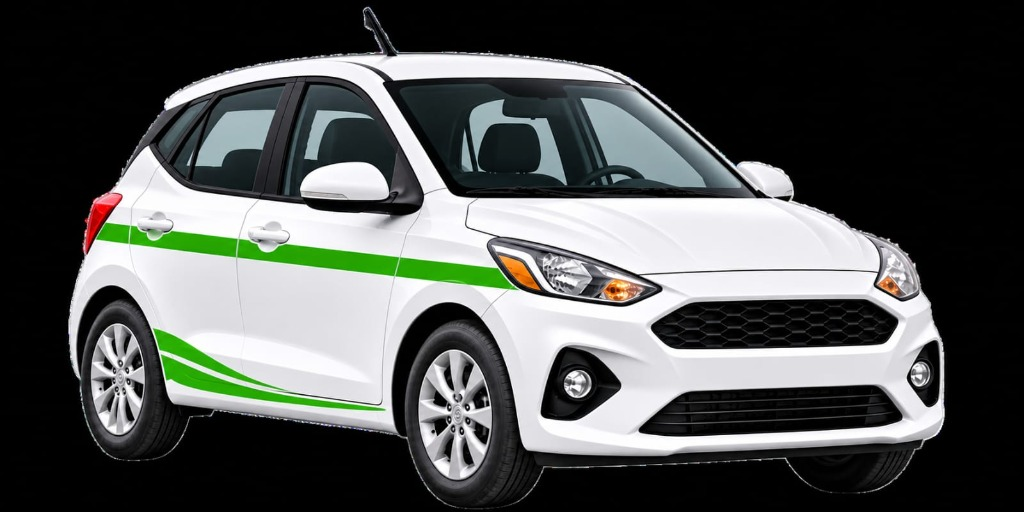
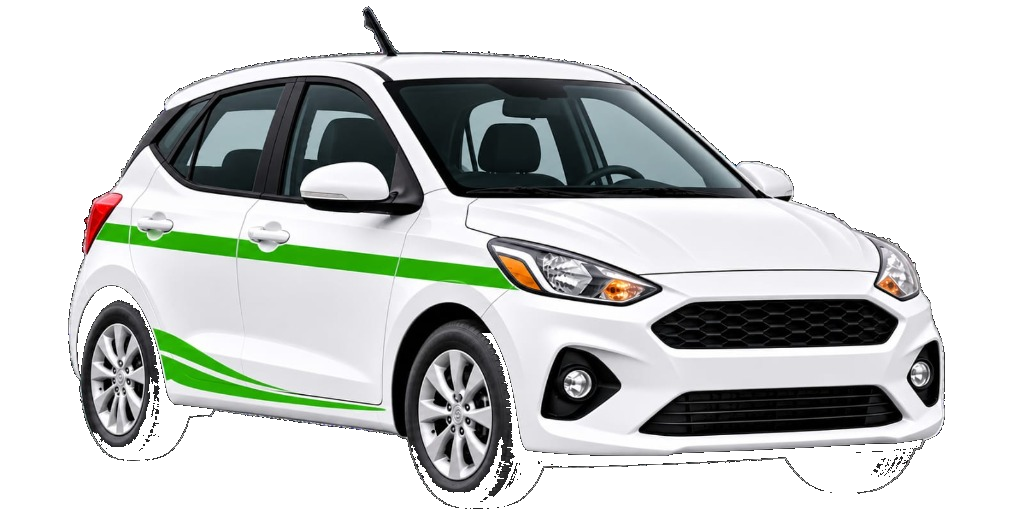
fix(home): use transparent car images and remove JCB and Crane

diff --git a/frontend/lib/features/customer/presentation/screens/customer_home_screen.dart b/frontend/lib/features/customer/presentation/screens/customer_home_screen.dart
@@ -1025,27 +1025,24 @@ class _CustomerHomeScreenState extends ConsumerState<CustomerHomeScreen>
           crossAxisAlignment: CrossAxisAlignment.center,
           mainAxisAlignment: MainAxisAlignment.center,
           children: [
-            Container(
+            SizedBox(
               height: 64,
               width: double.infinity,
-              decoration: BoxDecoration(
-                color: Colors.white,
-                borderRadius: BorderRadius.circular(10),
+              child: Center(
+                child: item.assetImagePath != null
+                    ? Image.asset(
+                        item.assetImagePath!,
+                        height: 60,
+                        width: double.infinity,
+                        fit: BoxFit.contain,
+                        errorBuilder: (_, __, ___) => VehicleCategoryVisual(
+                          category: item.category,
+                          size: 44,
+                          borderRadius: 0,
+                        ),
+                      )
+                    : Icon(item.icon, size: 44),
               ),
-              alignment: Alignment.center,
-              child: item.assetImagePath != null
-                  ? Image.asset(
-                      item.assetImagePath!,
-                      height: 60,
-                      width: double.infinity,
-                      fit: BoxFit.contain,
-                      errorBuilder: (_, __, ___) => VehicleCategoryVisual(
-                        category: item.category,
-                        size: 44,
-                        borderRadius: 10,
-                      ),
-                    )
-                  : Icon(item.icon, size: 44),
             ),
             const SizedBox(height: 6),
             Text(

diff --git a/frontend/lib/features/customer/presentation/widgets/vehicle_category_visual.dart b/frontend/lib/features/customer/presentation/widgets/vehicle_category_visual.dart
@@ -30,7 +30,7 @@ class VehicleCategoryConfig {
       category: VehicleCategoryType.rides,
       title: 'Rides & Cabs',
       subtitle: 'Daily city rides',
-      assetImagePath: 'assets/images/hatchback_clean.jpg',
+      assetImagePath: 'assets/vehicles/rental_card_hatchback.png',
       fallbackIcon: Icons.directions_car_rounded,
     ),
     VehicleCategoryType.logistics: VehicleCategoryConfig(
@@ -103,21 +103,16 @@ class VehicleCategoryVisual extends StatelessWidget {
     final config = VehicleCategoryConfig.getConfig(category);
     final imagePath = customAssetPath ?? config.assetImagePath;
 
-    return ClipRRect(
-      borderRadius: BorderRadius.circular(borderRadius),
-      child: Container(
-        width: size,
-        height: size,
-        decoration: BoxDecoration(
-          color: Colors.white,
-          borderRadius: BorderRadius.circular(borderRadius),
-        ),
+    return SizedBox(
+      width: size,
+      height: size,
+      child: Center(
         child: imagePath != null
             ? Image.asset(
                 imagePath,
                 width: size,
                 height: size,
-                fit: fit,
+                fit: BoxFit.contain,
                 errorBuilder: (_, __, ___) => _buildFallback(config),
               )
             : _buildFallback(config),

diff --git a/frontend/lib/features/customer/presentation/screens/ride_booking_screen.dart b/frontend/lib/features/customer/presentation/screens/ride_booking_screen.dart
@@ -2217,15 +2217,6 @@ class _RideBookingScreenState extends ConsumerState<RideBookingScreen>
   String _getVehicleImagePath(FleetVehicleModel vehicle) {
     final cat = vehicle.category.toLowerCase();
     final name = vehicle.displayName.toLowerCase();
-    if (cat.contains('jcb') ||
-        name.contains('jcb') ||
-        cat.contains('excavator') ||
-        name.contains('excavator')) {
-      return 'assets/images/jcb_excavator.jpg';
-    }
-    if (cat.contains('crane') || name.contains('crane')) {
-      return 'assets/images/crane_truck.png';
-    }
     if (cat.contains('garbage') ||
         name.contains('garbage') ||
         cat.contains('dump') ||
@@ -2336,10 +2327,7 @@ class _RideBookingScreenState extends ConsumerState<RideBookingScreen>
     if (cat.contains('towing') || name.contains('towing')) {
       return Icons.car_repair_rounded;
     }
-    if (cat.contains('jcb') ||
-        name.contains('jcb') ||
-        cat.contains('roller') ||
-        name.contains('roller')) {
+    if (cat.contains('roller') || name.contains('roller')) {
       return Icons.construction_rounded;
     }
     if (cat.contains('thar') || name.contains('thar')) {

diff --git a/frontend/test/features/customer/original_vehicle_recovery_test.dart b/frontend/test/features/customer/original_vehicle_recovery_test.dart
@@ -224,13 +224,19 @@ void main() {
       expect(find.text('Towing Van'), findsOneWidget);
       expect(find.text('Crane'), findsNothing);
       expect(find.text('JCB'), findsNothing);
-      await tester.tap(find.text('Construction'));
-      await tester.pumpAndSettle();
-      expect(find.text('JCB'), findsOneWidget);
-      expect(find.text('Crane'), findsOneWidget);
-      expect(find.text('Ambulance'), findsNothing);
-      expect(find.text('Towing Van'), findsNothing);
-      for (final name in ['Support', 'JCB / Excavator', 'Roadside Assist']) {
+      if (find.text('Construction').evaluate().isNotEmpty) {
+        await tester.tap(find.text('Construction'));
+        await tester.pumpAndSettle();
+        expect(find.text('JCB'), findsNothing);
+        expect(find.text('Crane'), findsNothing);
+      }
+      for (final name in [
+        'Support',
+        'JCB',
+        'Crane',
+        'JCB / Excavator',
+        'Roadside Assist',
+      ]) {
         expect(find.text(name), findsNothing);
       }
       await tester.pumpWidget(const SizedBox.shrink());

diff --git a/frontend/lib/features/customer/domain/utils/vehicle_visibility.dart b/frontend/lib/features/customer/domain/utils/vehicle_visibility.dart
@@ -1,10 +1,23 @@
 /// Only validates the shape of a selection. The backend owns catalog eligibility.
-bool isCustomerVehicleVisible(String sector, String code, [String? name]) =>
-    const {
-      'passenger',
-      'rental',
-      'logistics',
-      'premium',
-      'service',
-    }.contains(sector) &&
-    code.trim().isNotEmpty;
+/// JCB and Crane are excluded from all customer-facing catalogs and lists.
+bool isCustomerVehicleVisible(String sector, String code, [String? name]) {
+  if (!const {
+    'passenger',
+    'rental',
+    'logistics',
+    'premium',
+    'service',
+  }.contains(sector)) {
+    return false;
+  }
+  if (code.trim().isEmpty) return false;
+  final normalizedCode = code.toLowerCase().trim();
+  final normalizedName = (name ?? '').toLowerCase().trim();
+  if (normalizedCode == 'jcb' ||
+      normalizedCode == 'crane' ||
+      normalizedName.contains('jcb') ||
+      normalizedName.contains('crane')) {
+    return false;
+  }
+  return true;
+}

diff --git a/frontend/test/features/customer/horizontal_service_call_test.dart b/frontend/test/features/customer/horizontal_service_call_test.dart
@@ -282,7 +282,7 @@ void main() {
           )
           .first;
       for (final entry in [
-        ('service', 'Towing Van', 4),
+        ('service', 'Towing Van', 2),
         ('premium', 'Helicopter', 6),
       ]) {
         final row = find.byKey(ValueKey('vehicle-row:${entry.$1}'));
@@ -322,9 +322,11 @@ void main() {
       await tester.tap(seeAll);
       await tester.pumpAndSettle();
       expect(find.text('Specialty & Emergency'), findsOneWidget);
-      for (final name in ['Ambulance', 'Crane', 'JCB', 'Towing Van']) {
+      for (final name in ['Ambulance', 'Towing Van']) {
         expect(find.text(name), findsOneWidget);
       }
+      expect(find.text('Crane'), findsNothing);
+      expect(find.text('JCB'), findsNothing);
       await tester.pumpWidget(const SizedBox.shrink());
       container.dispose();
       socket.dispose();

diff --git a/frontend/lib/features/customer/presentation/widgets/vehicle_presentation_catalog.dart b/frontend/lib/features/customer/presentation/widgets/vehicle_presentation_catalog.dart
@@ -154,12 +154,6 @@ const vehicleDisplayMetadata = <String, Map<String, Map<String, String>>>{
     },
   },
   "service": {
-    "crane": {
-      "title": "Crane",
-      "filter": "Construction",
-      "subtitle": "Heavy lifting assistance",
-      "image": "assets/images/crane_truck.png",
-    },
     "ambulance": {
       "title": "Ambulance",
       "filter": "Emergency",
@@ -171,12 +165,6 @@ const vehicleDisplayMetadata = <String, Map<String, Map<String, String>>>{
       "filter": "Emergency",
       "subtitle": "Breakdown Assistance",
       "image": "assets/images/flatbed_towing_truck.png",
-    },
-    "jcb": {
-      "title": "JCB",
-      "filter": "Construction",
-      "subtitle": "Excavation Assistance",
-      "image": "assets/images/jcb_excavator.jpg",
     },
   },
 };

diff --git a/frontend/test/features/customer/ride_cancellation_window_test.dart b/frontend/test/features/customer/ride_cancellation_window_test.dart
@@ -11,9 +11,7 @@ void main() {
     () {
       const descriptions = {
         'ambulance': 'Patient + Medical Triage',
-        'jcb': 'Excavation Assistance',
         'towing': 'Breakdown Assistance',
-        'crane': 'Heavy lifting assistance',
       };
       for (var refresh = 0; refresh < 2; refresh++) {
         final cards = customerVehiclePresentation('service', [

diff --git a/frontend/test/features/customer/vehicle_image_mapping_test.dart b/frontend/test/features/customer/vehicle_image_mapping_test.dart
@@ -132,7 +132,7 @@ void main() {
       expect(
         VehicleCategoryConfig.getConfig(VehicleCategoryType.rides)
             .assetImagePath,
-        'assets/images/hatchback_clean.jpg',
+        'assets/vehicles/rental_card_hatchback.png',
       );
       expect(
         VehicleCategoryConfig.getConfig(VehicleCategoryType.logistics)

diff --git a/frontend/lib/features/customer/domain/utils/vehicle_category_mapper.dart b/frontend/lib/features/customer/domain/utils/vehicle_category_mapper.dart
@@ -18,7 +18,6 @@ String normalizeVehicleCategoryForBackend(String sector, String? category) {
     '407 cargo': 'cargo_407',
     'towing van': 'towing',
     'towing_van': 'towing',
-    'jcb / excavator': 'jcb',
     'roadside assist': 'roadside_assist',
     'toyota fortuner': 'fortuner',
     'mahindra thar': 'thar',
